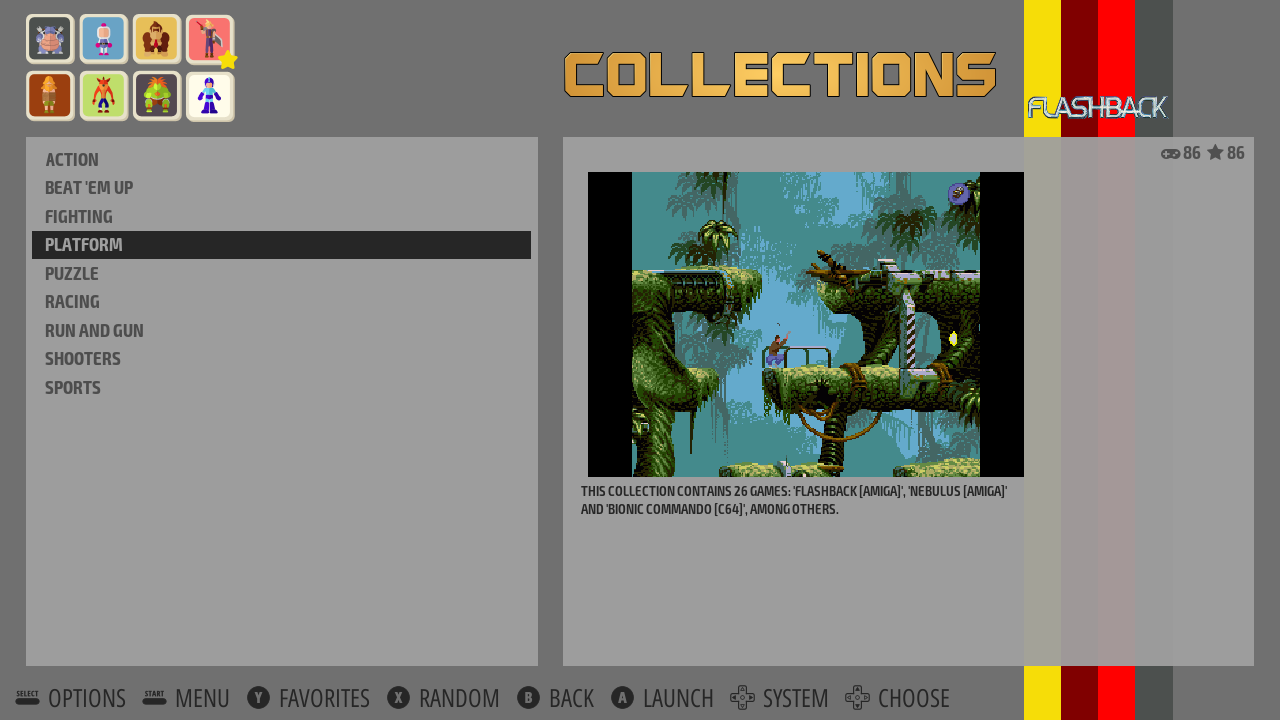
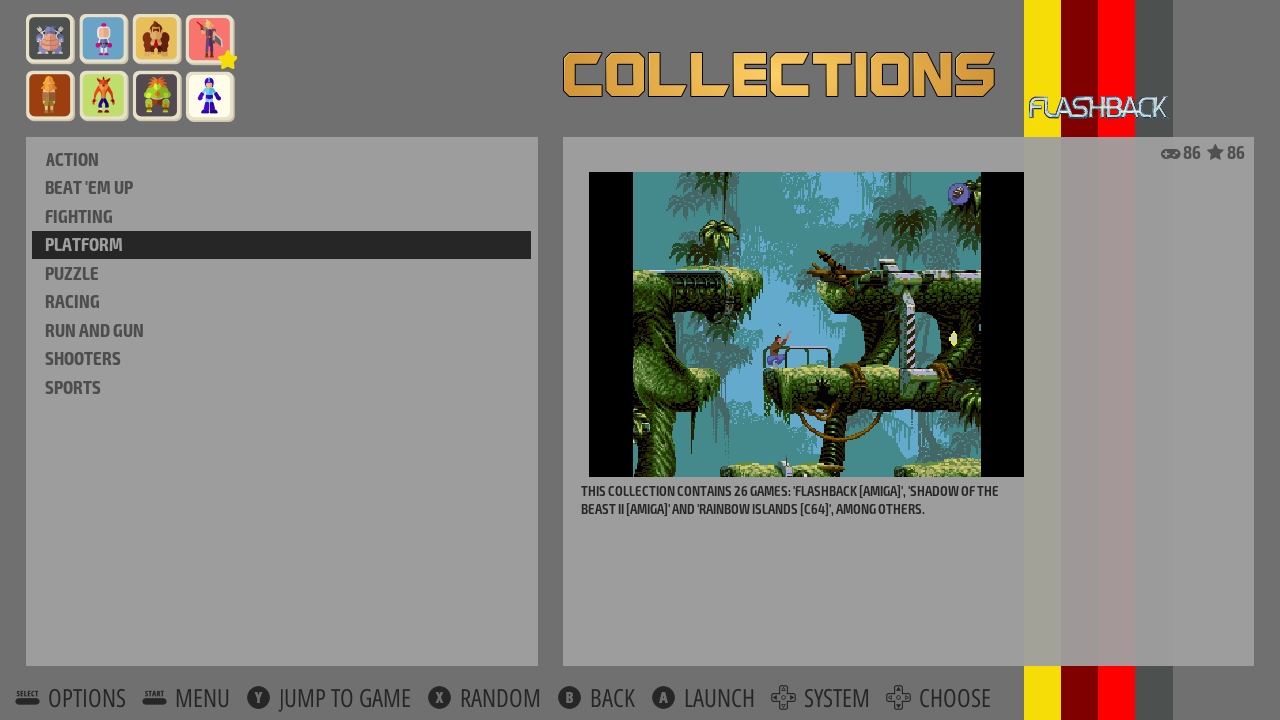
Small documentation update.

diff --git a/USERGUIDE.md b/USERGUIDE.md
@@ -1235,7 +1235,7 @@ These are collections that you create yourself. Examples could be grouping in ge
 
 If the theme set supports it, you can create a custom collection directly from a theme. However, rbsimple-DE does not provide such themes as it's believed that grouping them together in a dedicated Collections system is a more elegant solution. Especially since the theme set would need to ship with an almost endless amount of collection themes for whatever categories the users would like to use for their game collections.
 
-So if you have enabled the option **Group unthemed custom collections** (it's enabled by default), any collections you add will show up in the special Collections system. Here you can access them just as you would access folders inside a regular gamelist. The amount of games per collection is shown in the description, and a random game is displayed each time you browse through the list.
+So if you have enabled the option **Group unthemed custom collections** (it's enabled by default), any collections you add will show up in the special Collections system. Here you can access them just as you would access folders inside a regular gamelist. The amount of games per collection is shown in the description, and a random game is displayed each time you browse through the list (you can quick jump to this game by pressing the **Y** button).
 
 To create a custom collection, go to **Game collection settings** from the main menu and choose **Create new custom collection**.
 
